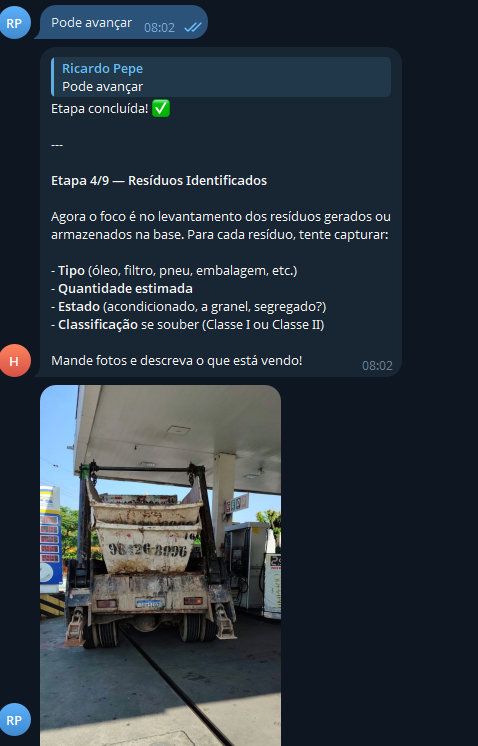
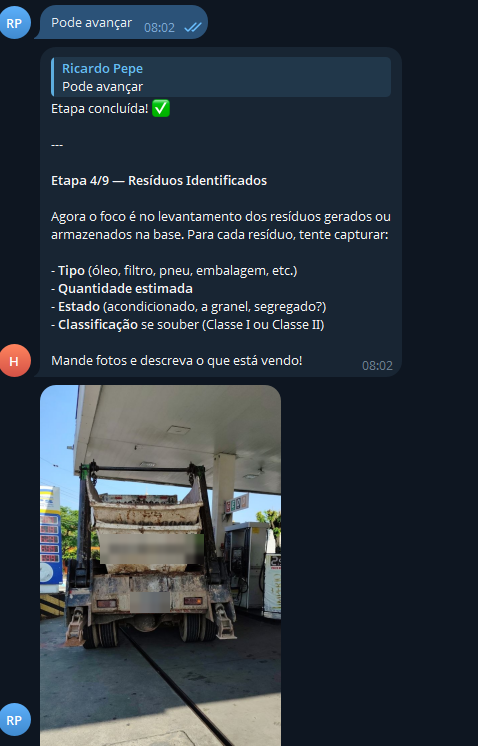
Ciclo: horário das confirmações, km/hodômetro, CAC-302/305, foto do Telegram sem telefone e placa, textos alternativos

Changed region(s): [[0.205, 0.7091, 0.4393, 0.8324]]

diff --git a/ciclo/index.html b/ciclo/index.html
@@ -54,8 +54,8 @@
           <div class="swap-video" data-swap-video>
             <video src="assets/retirada-cacamba.mp4?v=2" poster="assets/retirada-cacamba-poster.jpg" muted loop playsinline autoplay preload="auto" aria-label="Simulação em vídeo: os braços do caminhão poliguindaste colocam a caçamba cheia de entulho sobre a carroceria, o caminhão sai e, em seguida, uma caçamba vazia aparece instalada no cliente."></video>
             <span class="swap-vtag vtag-os" aria-hidden="true"><i></i>OS-10064 · retirada de caçamba</span>
-            <span class="swap-vtag vtag-ok" aria-hidden="true">✓ CAC-07 retirada · 09:14</span>
-            <span class="swap-vtag vtag-ok vtag-in" aria-hidden="true">✓ CAC-12 instalada · 09:20</span>
+            <span class="swap-vtag vtag-ok" aria-hidden="true">✓ CAC-302 retirada · 09:14</span>
+            <span class="swap-vtag vtag-ok vtag-in" aria-hidden="true">✓ CAC-305 instalada · 09:20</span>
           </div>
           <svg class="swap-scene" viewBox="0 0 640 380" role="img" aria-labelledby="swap-title">
             <title id="swap-title">Ilustração animada: um caminhão poliguindaste chega com uma caçamba vazia, a caçamba vazia sobe e gira no ar, a caçamba cheia do cliente sobe sem inclinar e é colocada no caminhão, a vazia fica instalada no Cliente Alfa e o caminhão leva a cheia para a base.</title>
@@ -151,7 +151,7 @@
             <g class="cac cac-g">
               <use href="#cac-load" class="cac-mound" transform="translate(405 244)"/>
               <use href="#cac-body" transform="translate(405 244)"/>
-              <text class="cac-id" x="470" y="282">CAC-07</text>
+              <text class="cac-id" x="470" y="282">CAC-302</text>
             </g>
 
             <!-- caminhão poliguindaste: chassi, cabine e rodas -->
@@ -228,7 +228,7 @@
             <g class="cac cac-t">
               <use href="#cac-load" class="cac-mound" transform="translate(105 178)"/>
               <use href="#cac-body" transform="translate(105 178)"/>
-              <text class="cac-id" x="170" y="216">CAC-12</text>
+              <text class="cac-id" x="170" y="216">CAC-305</text>
             </g>
 
             <!-- braços do poliguindaste: ficam por fora da caçamba -->
@@ -252,10 +252,10 @@
               <text x="28" y="19">OS-10064 · troca de caçamba</text>
             </g>
             <g class="swap-tag tag-ok" transform="translate(368 168)">
-              <rect width="204" height="30" rx="4"/><text x="14" y="19">✓ CAC-12 instalada · 09:14</text>
+              <rect width="204" height="30" rx="4"/><text x="14" y="19">✓ CAC-305 instalada · 09:14</text>
             </g>
             <g class="swap-tag tag-out" transform="translate(300 150)">
-              <rect width="214" height="30" rx="4"/><text x="14" y="19">CAC-07 retirada · rumo à base</text>
+              <rect width="214" height="30" rx="4"/><text x="14" y="19">CAC-302 retirada · rumo à base</text>
             </g>
           </svg>
         </figure>
@@ -329,7 +329,7 @@
             <aside class="operation-hermes" aria-labelledby="operation-hermes-title" data-operation-reveal>
               <h3 id="operation-hermes-title">Uma pergunta ao Agente.<br>Informação da sua operação.</h3>
               <p class="operation-example-label">Exemplos ilustrativos</p>
-              <ul class="operation-questions"><li>“Onde está a CAC-12?”</li><li>“Quais ativos estão no Cliente Alfa?”</li></ul>
+              <ul class="operation-questions"><li>“Onde está a CAC-305?”</li><li>“Quais ativos estão no Cliente Alfa?”</li></ul>
               <p class="operation-permissions">Consulte pelo Telegram, conforme suas permissões de acesso.</p>
             </aside>
         </div>
@@ -339,12 +339,12 @@
       <div class="wrap app-layout">
         <div class="app-copy" data-cx-reveal>
           <p class="eyebrow"><span aria-hidden="true"></span>APP DE CAMPO DO MOTORISTA</p>
-          <h2 id="app-title">O motorista segue o roteiro. <span>Etapa por etapa, no celular.</span></h2>
-          <p class="app-description">No celular, o motorista vê os serviços da viagem, avança etapa por etapa e registra o que aconteceu.</p>
+          <h2 id="app-title">O motorista segue o roteiro. <span>O escritório acompanha cada passo.</span></h2>
+          <p class="app-description">No celular, o motorista vê os serviços da viagem, avança etapa por etapa e registra o que aconteceu. Cada confirmação chega ao sistema com horário.</p>
           <ul class="app-points">
             <li>Roteiro passo a passo, da saída até a volta para a base.</li>
             <li>Check-in no cliente, chegada e confirmação de entrega.</li>
-            <li>Km rodados ao encerrar a viagem, com campo para foto do hodômetro.</li>
+            <li>O motorista digita o km e pode anexar a foto do hodômetro.</li>
             <li>Registro de problemas direto do campo.</li>
             <li>Resumo e prova de cada serviço concluído.</li>
           </ul>
@@ -410,12 +410,12 @@
       <div class="wrap vog-layout">
         <figure class="vog-figure" data-vog-reveal>
           <div class="vog-surface">
-            <a class="vog-preview" href="../assets/raw_files/wiseia-ciclo-vog-telegram.png" data-open-screen aria-haspopup="dialog" aria-controls="vog-dialog" aria-label="Ampliar conversa completa de uma visita guiada pelo Telegram">
-              <img src="assets/vog-telegram-previa.png" alt="Conversa real no Telegram: autorização para avançar, conclusão da etapa de armazenamento, orientações para registrar os resíduos identificados e foto enviada em campo." width="478" height="746" loading="lazy">
+            <a class="vog-preview" href="../assets/raw_files/wiseia-ciclo-vog-telegram.png?v=2" data-open-screen aria-haspopup="dialog" aria-controls="vog-dialog" aria-label="Ampliar conversa completa de uma visita guiada pelo Telegram">
+              <img src="assets/vog-telegram-previa.png?v=2" alt="Conversa de demonstração no Telegram: autorização para avançar, conclusão da etapa de armazenamento, orientações para registrar os resíduos identificados e foto enviada em campo." width="478" height="746" loading="lazy">
               <span class="vog-zoom" aria-hidden="true">Ampliar conversa ↗</span>
             </a>
             <figcaption>Trecho de uma visita guiada pelo Telegram.</figcaption>
-            <a class="vog-enlarge" href="../assets/raw_files/wiseia-ciclo-vog-telegram.png" data-open-screen aria-haspopup="dialog" aria-controls="vog-dialog">Ampliar conversa <span aria-hidden="true">↗</span></a>
+            <a class="vog-enlarge" href="../assets/raw_files/wiseia-ciclo-vog-telegram.png?v=2" data-open-screen aria-haspopup="dialog" aria-controls="vog-dialog">Ampliar conversa <span aria-hidden="true">↗</span></a>
           </div>
         </figure>
         <div class="vog-copy" data-vog-reveal>
@@ -487,8 +487,8 @@
       <h2 id="vog-dialog-title">Visita guiada pelo Telegram · Conversa completa</h2>
       <button type="button" class="dialog-close" autofocus>Fechar <span aria-hidden="true">×</span></button>
     </div>
-    <div class="vog-full-scroll" tabindex="0" role="region" aria-label="Captura completa da conversa real. Role para ler todo o conteúdo.">
-      <img src="../assets/raw_files/wiseia-ciclo-vog-telegram.png" alt="Captura completa da visita guiada no Telegram, com resumo dos registros da área de armazenamento, autorização para avançar, próxima etapa sobre resíduos e uma foto enviada durante a visita." width="478" height="1067">
+    <div class="vog-full-scroll" tabindex="0" role="region" aria-label="Captura completa da conversa de demonstração. Role para ler todo o conteúdo.">
+      <img src="../assets/raw_files/wiseia-ciclo-vog-telegram.png?v=2" alt="Captura completa da visita guiada no Telegram, com resumo dos registros da área de armazenamento, autorização para avançar, próxima etapa sobre resíduos e uma foto enviada durante a visita." width="478" height="1067">
     </div>
   </dialog>
   <dialog id="receiving-dialog" aria-labelledby="receiving-dialog-title">
